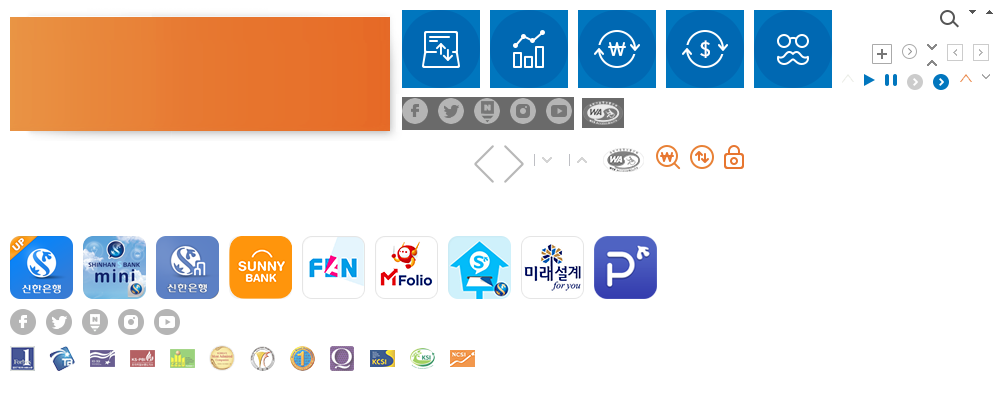
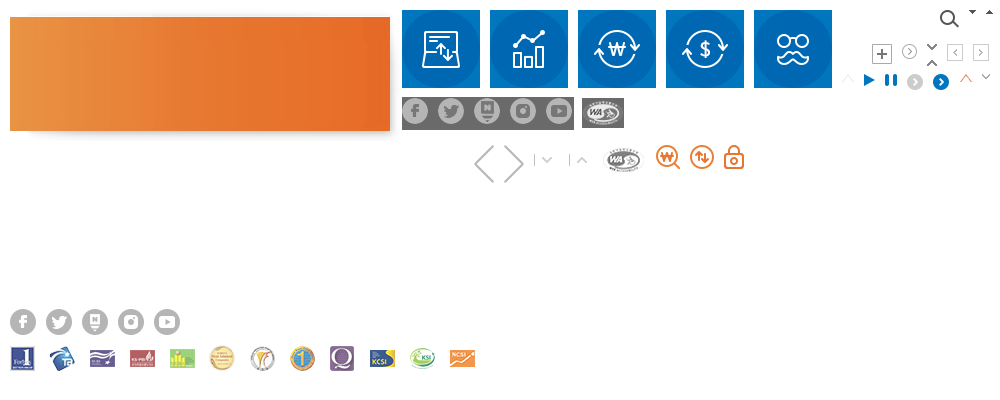
[🚜]이미지 경로 및 경로 수정

Changed region(s): [[0.0, 0.57, 0.682, 0.75]]

diff --git a/index.html b/index.html
@@ -11,7 +11,8 @@
 
         <!-- 메인 배너 -->
         <div id="side_View" style="display: block; width: 1680px; height: 456px; z-index: 1;">
-            <img src="https://image.shinhan.com/rib2017/download/main/20240605033646_06502180_intro_bg_main240605.png" alt="">
+            <div style=""></div>
+            <img src="./img/메인로고.png" style="position: absolute; left: 19%; height: 456px; width: 990px;">
             <a href="#" style="position: absolute; z-index: 2; display: block; top: 185px; left: 380px; color: #666666;">바로가기
                 <span></span>
             </a>
